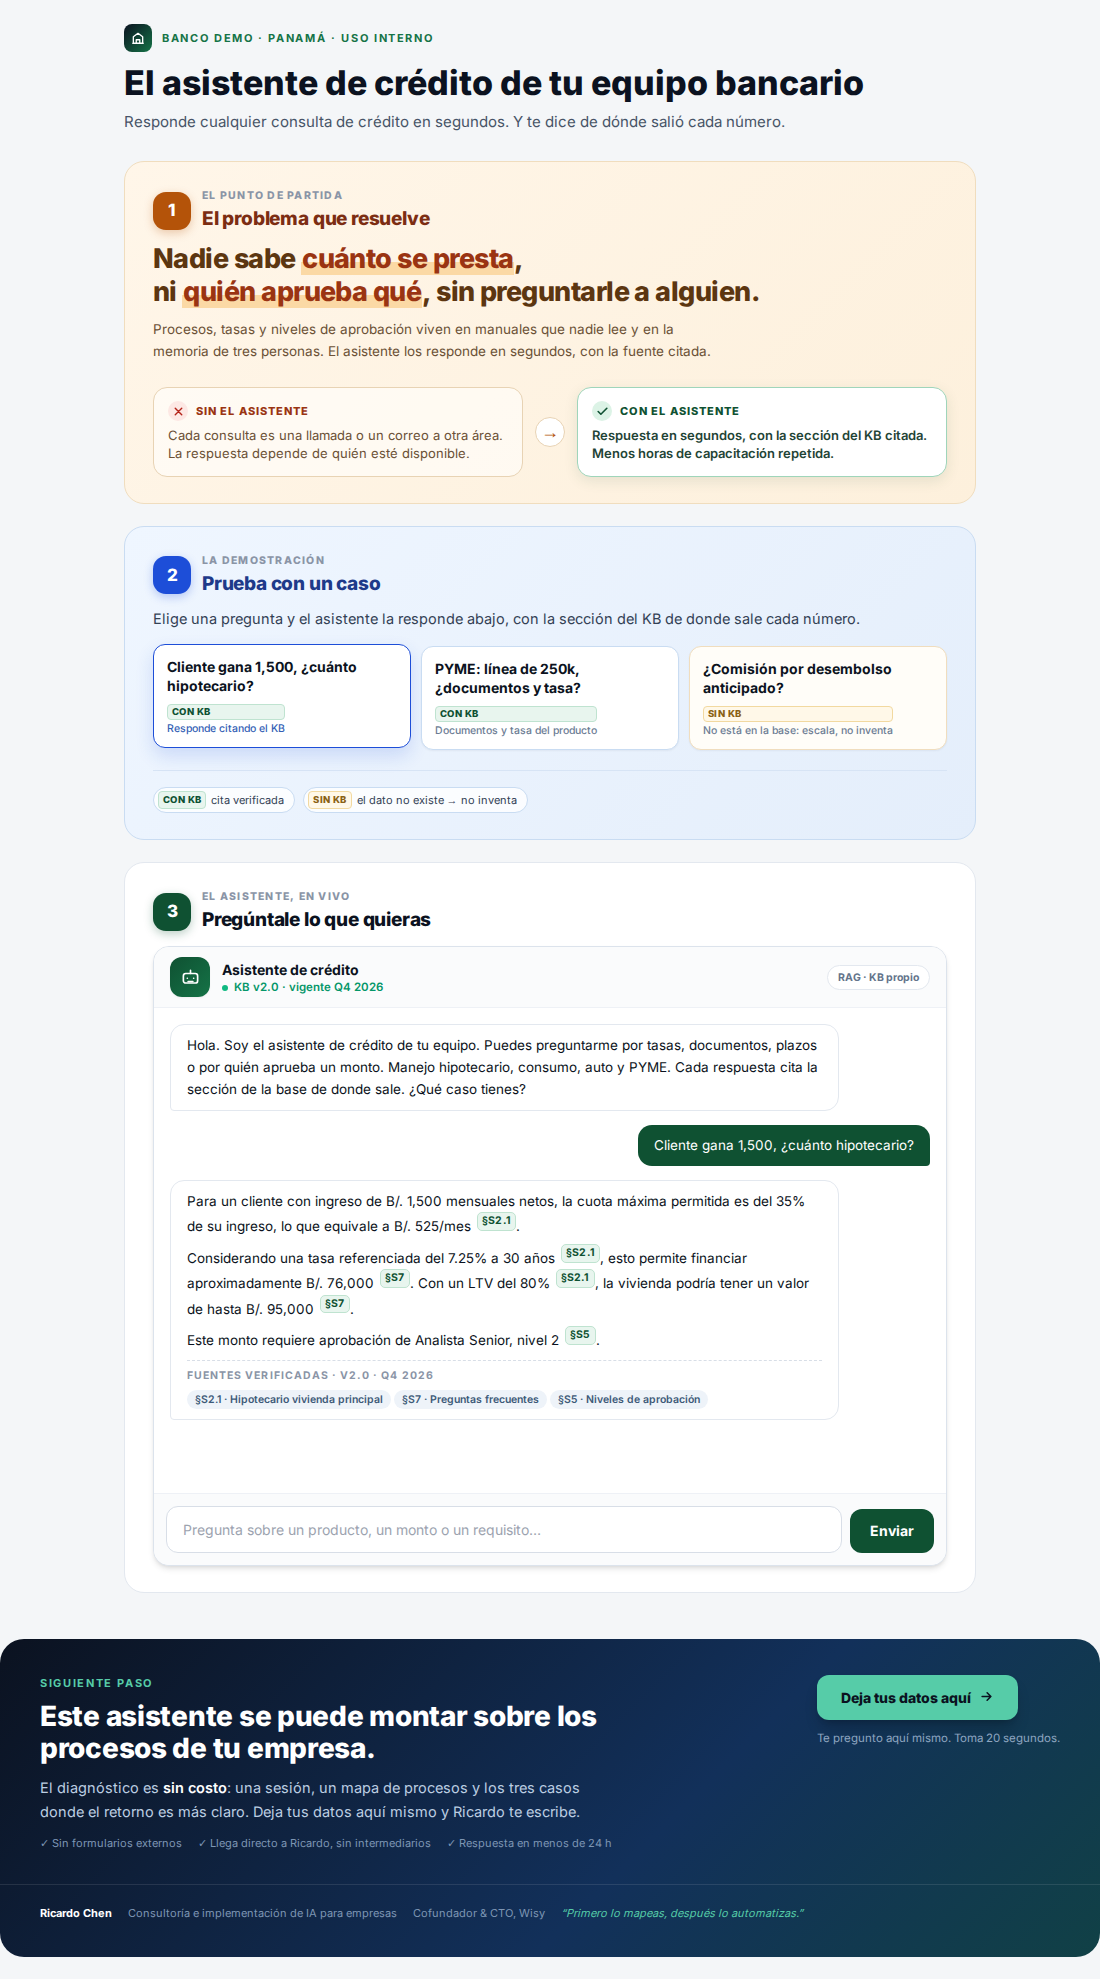
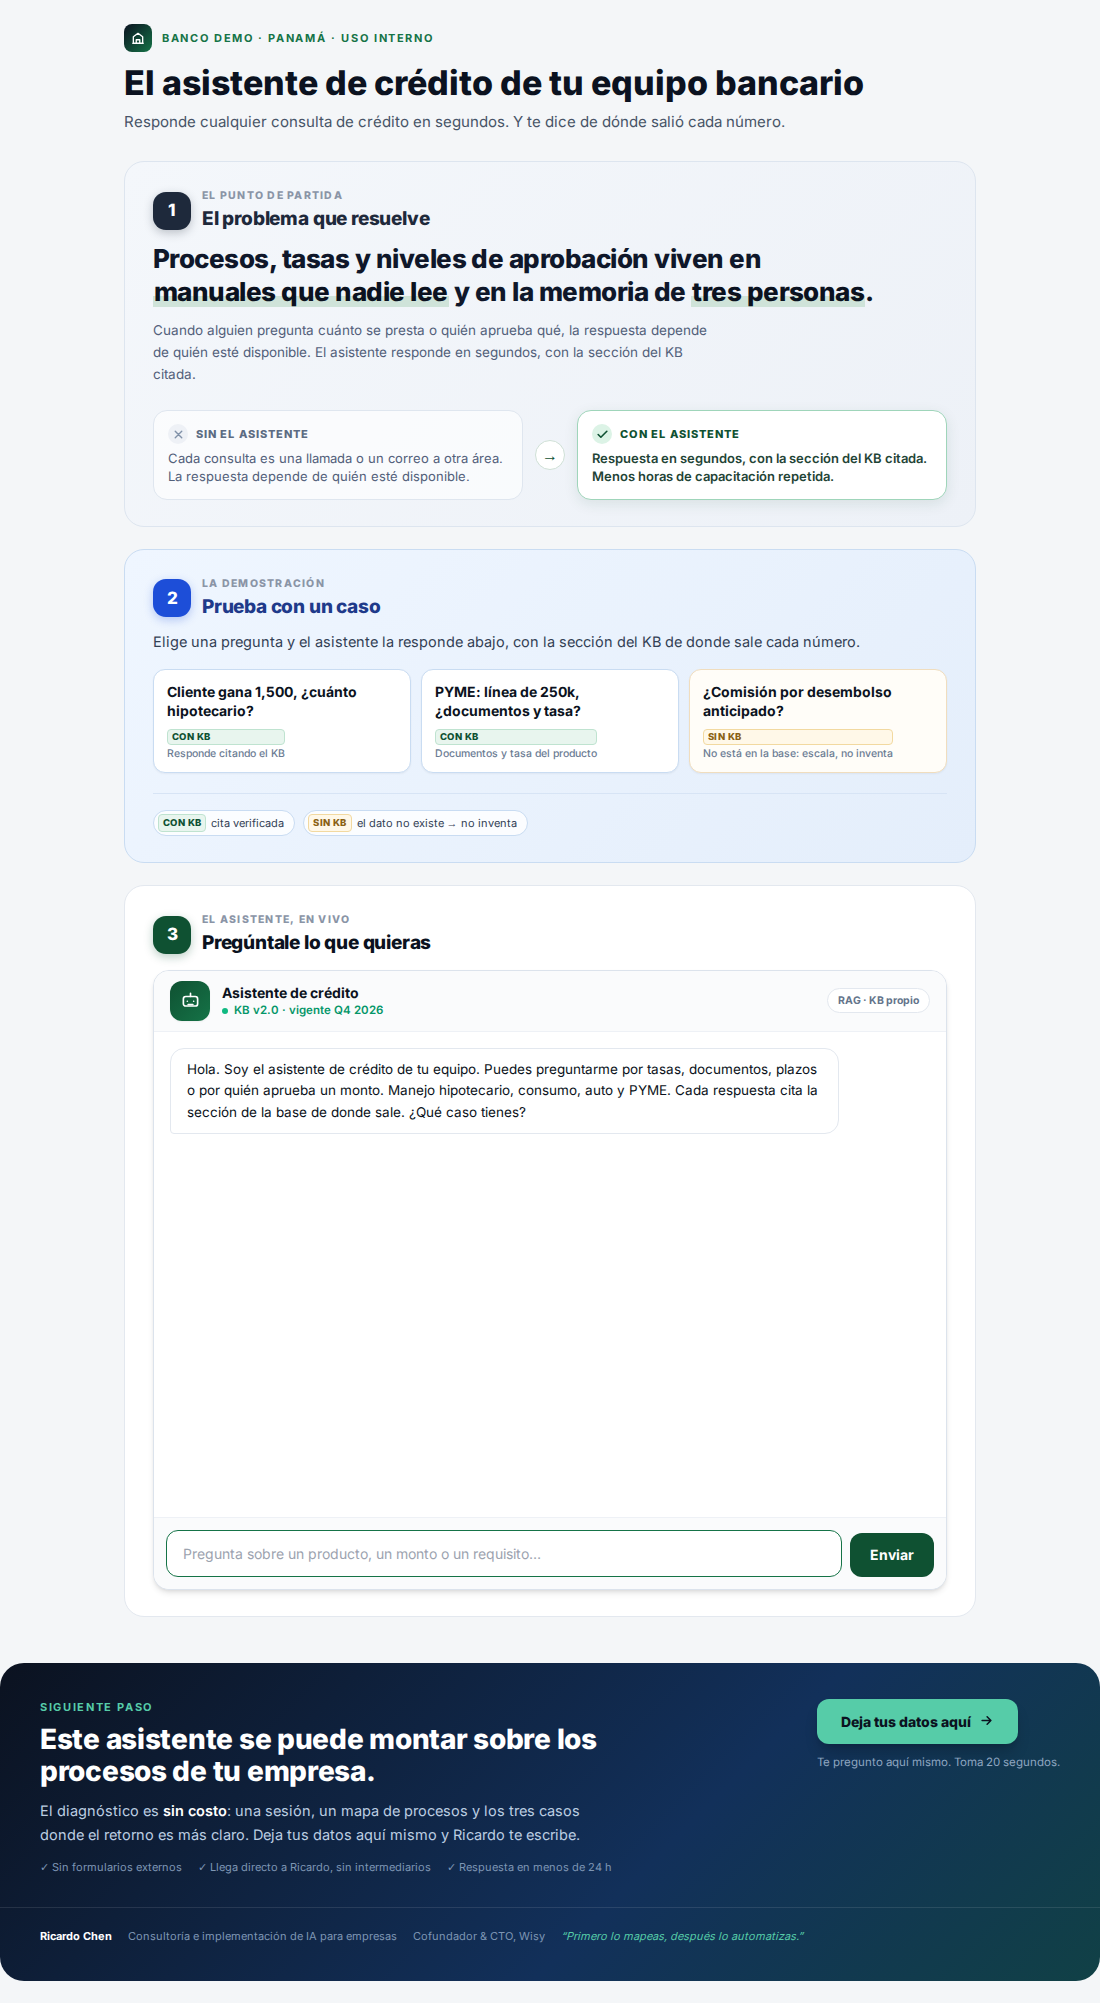
Cuadro 1: el parrafo fuerte pasa a ser el gancho; el titulo queda como etiqueta

diff --git a/index.html b/index.html
@@ -99,8 +99,8 @@
   .step-kicker { font-size:10.5px; font-weight:800; letter-spacing:.12em; text-transform:uppercase; color:#8A94A6; margin-bottom:1px; }
   .step-ico { flex-shrink:0; width:38px; height:38px; border-radius:13px; display:grid; place-items:center; }
   /* Gancho de la sección 1 */
-  .hook { font-size:21px; font-weight:800; line-height:1.22; letter-spacing:-.02em; }
-  @media (min-width:640px) { .hook { font-size:27px; } }
+  .hook { font-size:20px; font-weight:800; line-height:1.28; letter-spacing:-.02em; }
+  @media (min-width:640px) { .hook { font-size:26px; line-height:1.25; } }
   .hook-em { color:#0B1220; background:linear-gradient(180deg,transparent 63%,#CFE3D9 63%); padding:0 1px; }
   /* Comparación antes / ahora */
   .ba { border-radius:14px; padding:13px 14px; }
@@ -143,12 +143,12 @@
     </div>
 
     <p class="hook text-[#0F172A]">
-      Nadie sabe <span class="hook-em">cuánto se presta</span>,<br class="hidden sm:block">
-      ni <span class="hook-em">quién aprueba qué</span>, sin preguntarle a alguien.
+      Procesos, tasas y niveles de aprobación viven en<br class="hidden sm:block">
+      <span class="hook-em">manuales que nadie lee</span> y en la memoria de <span class="hook-em">tres personas</span>.
     </p>
-    <p class="text-[13.5px] text-[#52607A] mt-2.5 leading-relaxed max-w-[62ch]">
-      Procesos, tasas y niveles de aprobación viven en manuales que nadie lee y en la memoria de tres personas.
-      El asistente los responde en segundos, con la fuente citada.
+    <p class="text-[13.5px] text-[#52607A] mt-3 leading-relaxed max-w-[58ch]">
+      Cuando alguien pregunta cuánto se presta o quién aprueba qué, la respuesta depende de quién esté disponible.
+      El asistente responde en segundos, con la sección del KB citada.
     </p>
 
     <div class="grid sm:grid-cols-[1fr_auto_1fr] items-stretch gap-2.5 sm:gap-3 mt-6">
